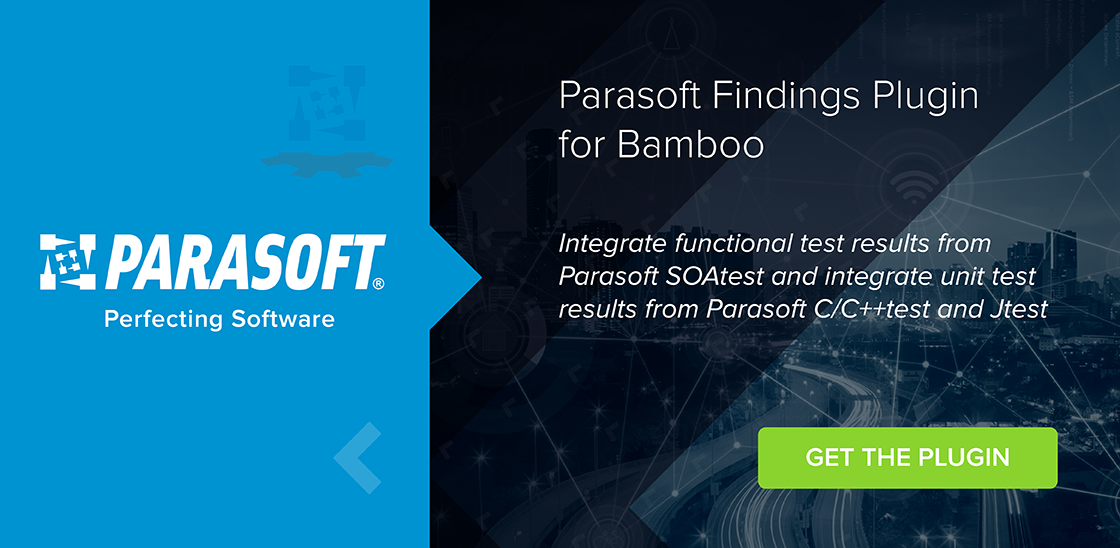
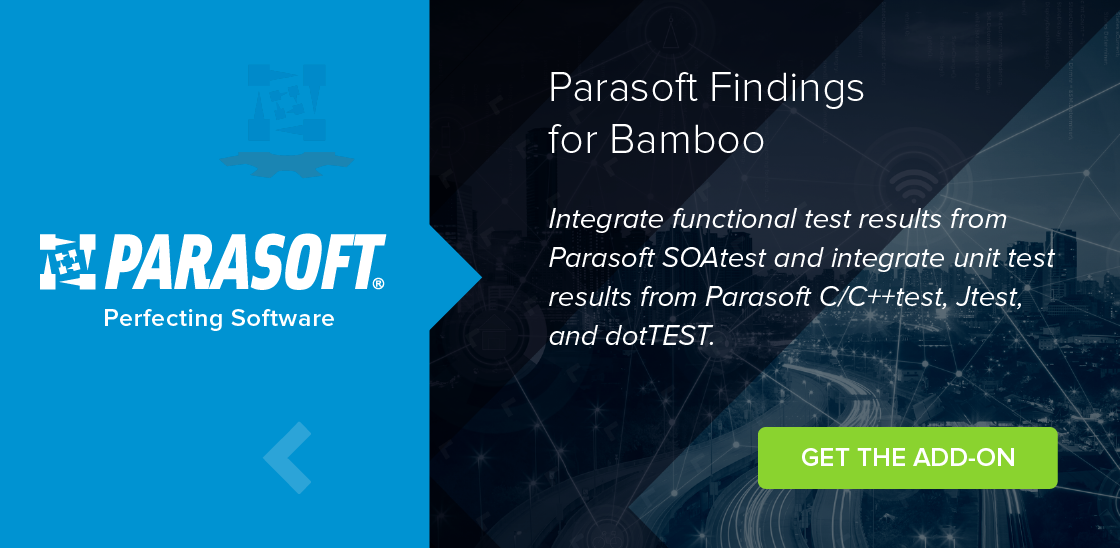
@task SOA-8666 - update name
Applying feedback from product management with assistance
from design team.

diff --git a/README.md b/README.md
@@ -1,8 +1,8 @@
-# Parasoft Findings Plugin for Bamboo
+# Parasoft Findings for Bamboo
 
-The Parasoft Findings Plugin enables you to visualize test results generated by Parasoft products in Bamboo. It includes two tasks that convert Parasoft's XML reports into graphs so you can conveniently view the test details.
+Parasoft Findings enables you to visualize test results generated by Parasoft products in Bamboo. It includes two tasks that convert Parasoft's XML reports into graphs so you can conveniently view the test details.
 
-The Parasoft Findings Plugin provides the following tasks in Bamboo:
+Parasoft Findings provides the following tasks in Bamboo:
 * Parasoft SOAtest 9.x Report Parser
 * Parasoft Analyzers 10.x Report Parser
 
